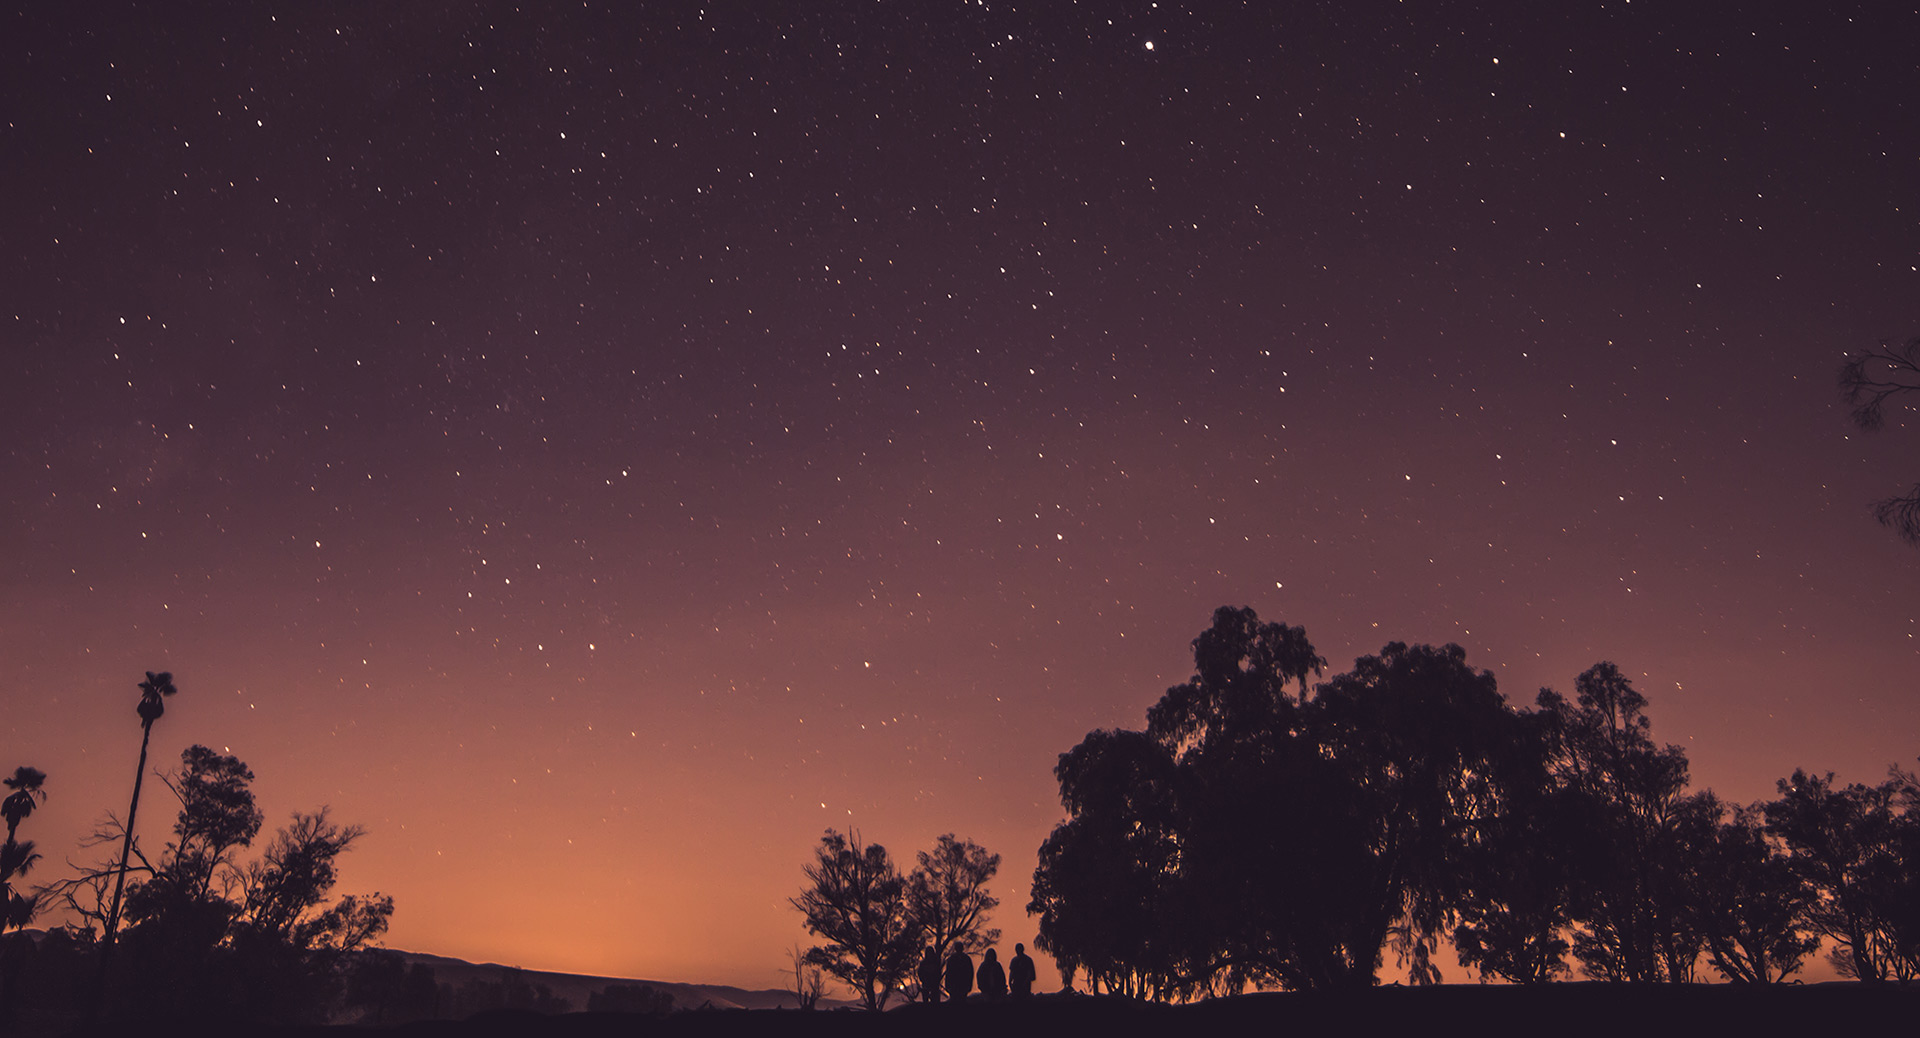
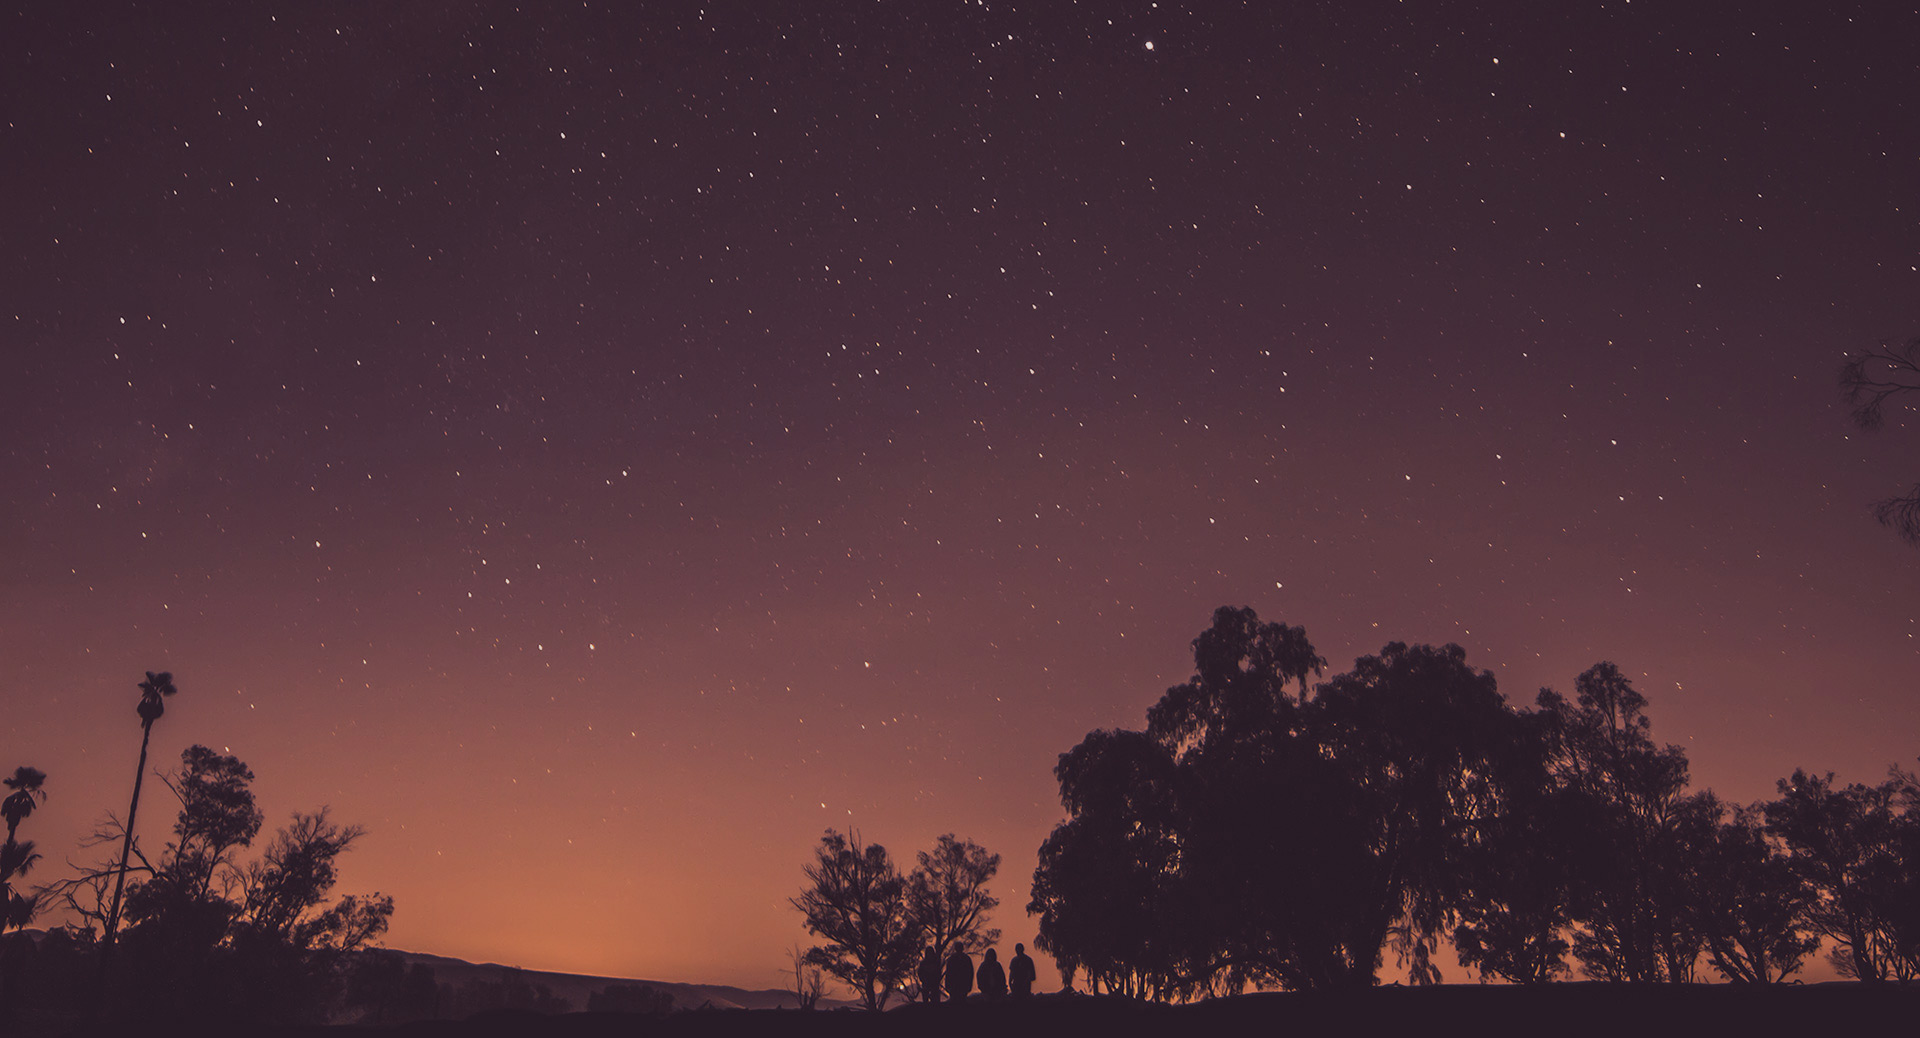
Final tweaks to the header

Changed region(s): [[0.2188, 0.8632, 0.3438, 0.9557], [0.7188, 0.9249, 0.75, 0.9557], [0.5625, 0.9249, 0.5938, 0.9557]]

diff --git a/_scss/_header.scss b/_scss/_header.scss
@@ -4,40 +4,48 @@
 //
 
 .header {
-  padding: 10vh 0;
-  border-bottom: 1px solid $lightestGrey;
-  background: url('images/header.jpg') no-repeat;
-  background-position: -710px bottom;
   height: 100vh;
+  padding: 15vh 0;
+  background: #543640 url('images/header.jpg') no-repeat;
+  background-position: -460px bottom;
   text-align: center;
 
+  @media screen and (min-width: 40.063em) and (orientation: portrait) { 
+    padding: 25vh 0;
+  }
+
   @include bp(medium) {
-    padding: 15vh 0;
-    background-position: center bottom;
+    background-position: -200px bottom;
   }
 
   @include bp(large) {
-    //padding: 10% 0;
+    padding: 16vh 0;
+    background-position: 0 bottom;
   }
+
+  
+  
 }
 
 .header--title {
-  margin: 1.75rem 0 0.125rem;
+  margin: 3vh 0 1vh;
   text-transform: uppercase;
-  font-weight: 300;
+  font-weight: 100;
+  letter-spacing: 1px;
   color: rgba(255,255,255,0.7);
   @include font-size(30px);
 }
 
 .header--subTitle {
   margin: 0 0 1rem;
-  color: #513640;
+  color: #70454a;
   font-family: $robotoSlab;
   text-transform: lowercase;
   opacity: 0.7;
-  @include font-size(30px);
+  @include font-size(26px);
 
   @include bp(medium) {
+    color: #513640;
     @include font-size(50px);
   }
 }
@@ -47,7 +55,7 @@
   height: 160px;
   opacity: 0.7;
 
-  @include bp(medium) {
+  @include bp(large) {
     width: 200px;
     height: 200px;
   }

diff --git a/_layouts/default.html b/_layouts/default.html
@@ -14,7 +14,7 @@
       <script src="http://html5shiv.googlecode.com/svn/trunk/html5.js"></script>
     <![endif]-->
 
-    <link href='http://fonts.googleapis.com/css?family=Roboto+Slab:400,700|Open+Sans:400,300,600|Merriweather:400,700' rel='stylesheet' type='text/css'>
+    <link href='http://fonts.googleapis.com/css?family=Roboto+Slab:400,700|Roboto:100,300|Merriweather:400,700' rel='stylesheet' type='text/css'>
 
     <link rel="stylesheet" type="text/css" href="{{ site.baseurl }}/style.css" />
     <link rel="alternate" type="application/rss+xml" title="{{ site.name }} - {{ site.description }}" href="{{ site.baseurl }}/feed.xml" />

diff --git a/_scss/_variables.scss b/_scss/_variables.scss
@@ -21,9 +21,10 @@ $white: #fefefe;
 $helvetica: Helvetica, Arial, sans-serif;
 $helveticaNeue: "Helvetica Neue", Helvetica, Arial, sans-serif;
 $georgia: Georgia, serif;
-$openSans: 'Open Sans', sans-serif;
-$merriweather: 'Merriweather', serif;
+$fontHeader: 'Roboto', Helvetica, Arial, sans-serif;
+$fontBody: 'Merriweather', serif;
 $robotoSlab: 'Roboto Slab', serif;
+// note to mitch - use roboto thin for heading fonts ;)
 
 // Mobile breakpoints
 @mixin mobile {

diff --git a/style.scss b/style.scss
@@ -24,14 +24,14 @@ html {
 
 body {
 	background: $white;
-  font-family: $merriweather;
+  font-family: $fontBody;
   @include font-size(16px);
   line-height: 1.8;
   color: $darkestGrey;
 }
 
 h1, h2, h3, h4, h5, h6 {
-  font-family: $openSans;
+  font-family: $fontHeader;
   color: $darkestGrey;
   font-weight: 300;
 

diff --git a/_scss/_footer.scss b/_scss/_footer.scss
@@ -6,7 +6,7 @@
   padding: 2rem 0;
   border-top: 1px solid $lightestGrey;
   text-align: center;
-  font-family: $openSans;
+  font-family: $fontHeader;
   text-transform: uppercase;
   letter-spacing: 1px;
   @include font-size(13px);

diff --git a/_scss/_nav.scss b/_scss/_nav.scss
@@ -5,7 +5,7 @@
 .nav--item {
 	display: inline-block;
 	margin: 1.5rem 1.5rem 0;
-	font-family: $openSans;
+	font-family: $fontHeader;
 	@include font-size(15px);
 	text-transform: uppercase;
 	color: $darkestGrey;
